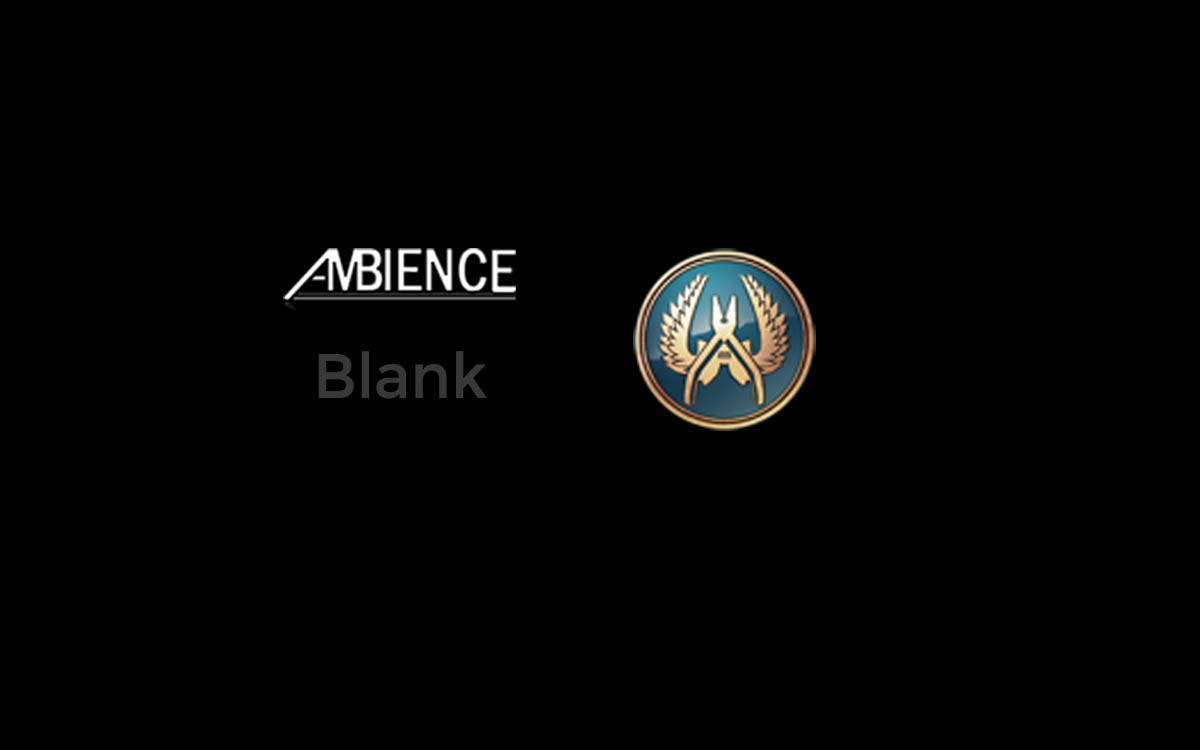
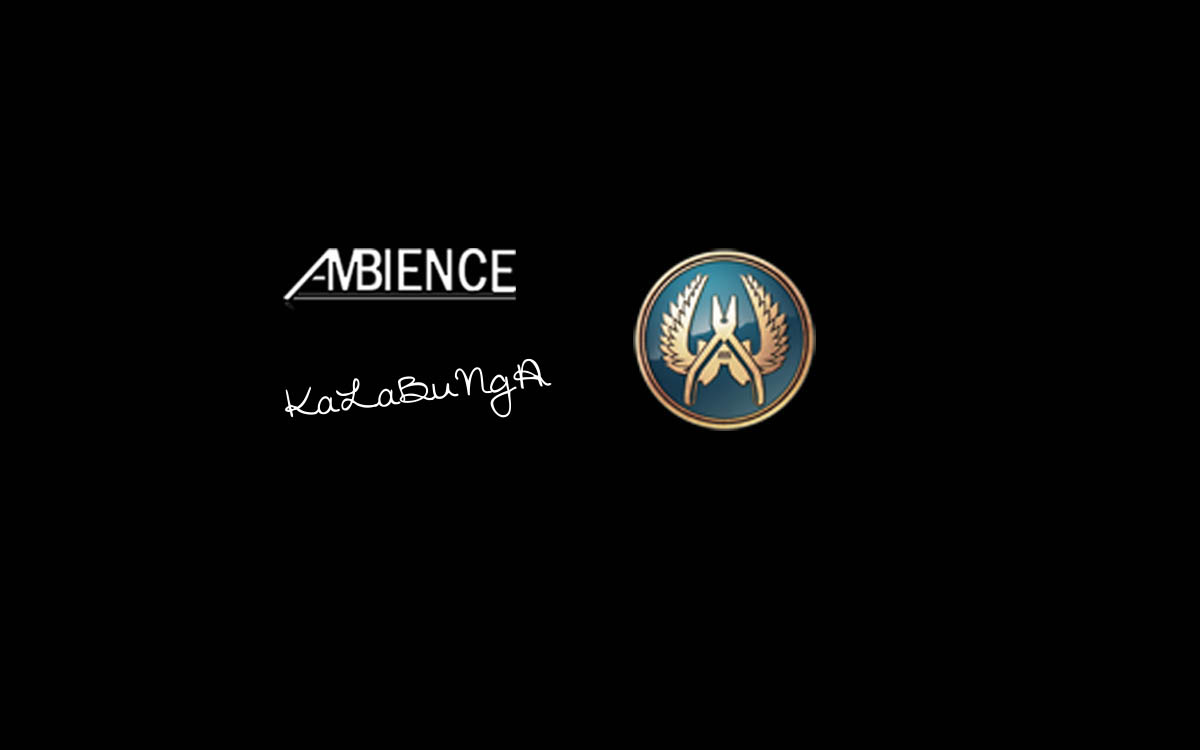
New Team Member
Slot3

Changed region(s): [[0.2158, 0.46, 0.4625, 0.552]]

diff --git a/portfolio-Player4.html b/portfolio-Player4.html
@@ -21,6 +21,8 @@
     <!-- Custom CSS -->
 	<link rel="stylesheet" href="css/main.css">
     <link href="css/custom.css" rel="stylesheet">
+	
+	<script src="//use.edgefonts.net/bebas-neue.js"></script>
 
     <!-- Custom Fonts & Icons -->
     <link href='http://fonts.googleapis.com/css?family=Open+Sans:400,700,600,800' rel='stylesheet' type='text/css'>
@@ -78,32 +80,58 @@
 			<div class="container">
 				<div class="row">
 					<div class="col-md-12">
-					  <h1>Our Team</h1>
+					  <h1>The TEAM</h1>
 					</div>
 				</div>
 			</div>
 		</div>
-		
-		
-        <div class="section">
-	    	<div class="container">
-				<div class="row">
-				<div class="col-sm-12">
-				  <h2>We are a new team in the Counter-Strike scene</h2>
-				  <h3>Casual - Professional - Good Looking<br>
-			      </h3>
-				  <p>This is the current team, maybe you could be up there?</p>
-				</div>
-				</div>
-			</div>
-		</div>		
         
         <div class="section">
 	    	<div class="container">
+	    		<div class="row">
+	    			<!-- Product Image & Available Colors -->
+	    			<div class="col-sm-6">
+	    				<div class="product-image-large">
+	    					<img src="img/portfolio/3.jpg" alt="Item Name">
+	    				</div>
+	    				<div class="colors">
+							<span class="color-white"></span>
+							<span class="color-black"></span>
+							<span class="color-blue"></span>
+							<span class="color-orange"></span>
+							<span class="color-green"></span>
+						</div>
+	    			</div>
+	    			<!-- End Product Image & Available Colors -->
+	    			<!-- Product Summary & Options -->
+	    			<div class="col-sm-6 product-details">
+	    			  <h2>KaLaBuNgA</h2>
+	    			  <h3>Quick Overview</h3>
+	    			  <p>Waiting for info </p>
+	    			  <p>Wating for Info </p>
+	    			  <h3>Player Info</h3>
+	    			  <p><strong>Name: </strong></p>
+	    			  <p><strong>Steam Profile:&nbsp;KaLaBuNgA </strong></p>
+	    			  <p><strong>Favourite Weapon: </strong></p>
+	    			</div>
+	    			<!-- End Product Summary & Options -->
+	    			
+	    		</div>
+			</div>
+		</div>
+		
+<hr>
+		
+        <div class="section">
+	    	<div class="container">
 				<div class="row">
+				
+				<div class="section-title">
+				  <h1>Players </h1>
+				</div>				
 			
 			<ul class="grid cs-style-2">
-	        	<div class="col-md-4 col-sm-6">
+	        	<div class="col-md-3 col-sm-6">
 					<figure>
 						<img src="img/portfolio/4.jpg" alt="img04">
 						<figcaption>
@@ -113,19 +141,9 @@
 						</figcaption>
 					</figure>
 	        	</div>	
-				<div class="col-md-4 col-sm-6">
+				<div class="col-md-3 col-sm-6">
 					<figure>
-						<img src="img/portfolio/1.jpg" alt="img01">
-						<figcaption>
-							<h3>Player</h3>
-							<span>Wizzkid</span>
-							<a href="portfolio-Player3.html">Take a look</a>
-						</figcaption>
-					</figure>
-				</div>
-				<div class="col-md-4 col-sm-6">
-					<figure>
-						<img src="img/portfolio/2.jpg" alt="img02">
+						<img src="img/portfolio/2.jpg" alt="img01">
 						<figcaption>
 							<h3>Player</h3>
 							<span>OneShotTwoKillS</span>
@@ -133,7 +151,17 @@
 						</figcaption>
 					</figure>
 				</div>
-				<div class="col-md-4 col-sm-6">
+				<div class="col-md-3 col-sm-6">
+					<figure>
+						<img src="img/portfolio/6.jpg" alt="img02">
+						<figcaption>
+							<h3>Coach</h3>
+							<span>Blank</span>
+							<a href="portfolio-item.html">Take a look</a>
+						</figcaption>
+					</figure>
+				</div>
+				<div class="col-md-3 col-sm-6">
 					<figure>
 						<img src="img/portfolio/5.jpg" alt="img05">
 						<figcaption>
@@ -143,38 +171,12 @@
 						</figcaption>
 					</figure>
 				</div>
-				<div class="col-md-4 col-sm-6">
-					<figure>
-						<img src="img/portfolio/3.jpg" alt="img03">
-						<figcaption>
-							<h3>Player</h3>
-							<span>Blank</span>
-							<a href="portfolio-Player4.html">Take a look</a>
-						</figcaption>
-					</figure>
-				</div>
-				<div class="col-md-4 col-sm-6">
-					<figure>
-						<img src="img/portfolio/6.jpg" alt="img06">
-						<figcaption>
-							<h3>Coach</h3>
-							<span>Blank</span>
-							<a href="portfolio-item.html">Take a look</a>
-						</figcaption>
-					</figure>
-				</div>
 			</ul>
 
 				
 				</div>
-				
-				<ul class="pager">
-				  <li></li>
-				  <li></li>
-				</ul>
-				
 			</div>
-		</div>
+		</div>		
 
 	    <!-- Footer -->
 	    <div class="footer">
@@ -185,11 +187,11 @@
 		    		<div class="col-footer col-md-4 col-xs-6">
 		    			<h3>Contact Us</h3>
 		    			<p class="contact-us-details"> <strong>Steam</strong> steamcommunity.com/groups/Ambience-ESports<br>
-		    			  <strong>Email:</strong> <a href="mailto:ambienceesports.csgo@gmail.com">ambienceesports.csgo@gmail.com</a> </p>
+	    			  <strong>Email:</strong> <a href="mailto:ambienceesports.csgo@gmail.com">ambienceesports.csgo@gmail.com</a> </p>
 		    		</div>				
 		    		<div class="col-footer col-md-4 col-xs-6">
 		    			<h3>Our Social Networks</h3>
-		    			<p>We are on social networking sites add us and keep up to date on the latest news.</p>
+	    			  <p>We are on manny social networking sites add us and keep up to date on the latest news.</p>
 		    			<div>
 		    				<img src="img/icons/facebook.png" width="32" alt="Facebook">
 		    				<img src="img/icons/twitter.png" width="32" alt="Twitter">
@@ -219,17 +221,3 @@
 		<!-- Scrolling Nav JavaScript -->
 		<script src="js/jquery.easing.min.js"></script>
 		<script src="js/scrolling-nav.js"></script>		
-		
-		<!-- Portfolio Thumbnail Hover Effect JavaScript -->
-		<script type="text/javascript" src="js/jquery.hoverdir.js"></script>	
-		<script type="text/javascript">
-			$(function() {
-			
-				$(' #da-thumbs > li ').each( function() { $(this).hoverdir(); } );
-
-			});
-		</script>
-
-		
-    </body>
-</html>

diff --git a/index.html b/index.html
@@ -241,8 +241,8 @@
 						<img src="img/portfolio/3.jpg" alt="img03">
 						<figcaption>
 							<h3>Player</h3>
-							<span>Blank</span>
-							<a href="">Take a look</a>
+							<span>KaLaBuNgA</span>
+							<a href="portfolio-Player4.html">Take a look</a>
 						</figcaption>
 					</figure>
 				</div>
